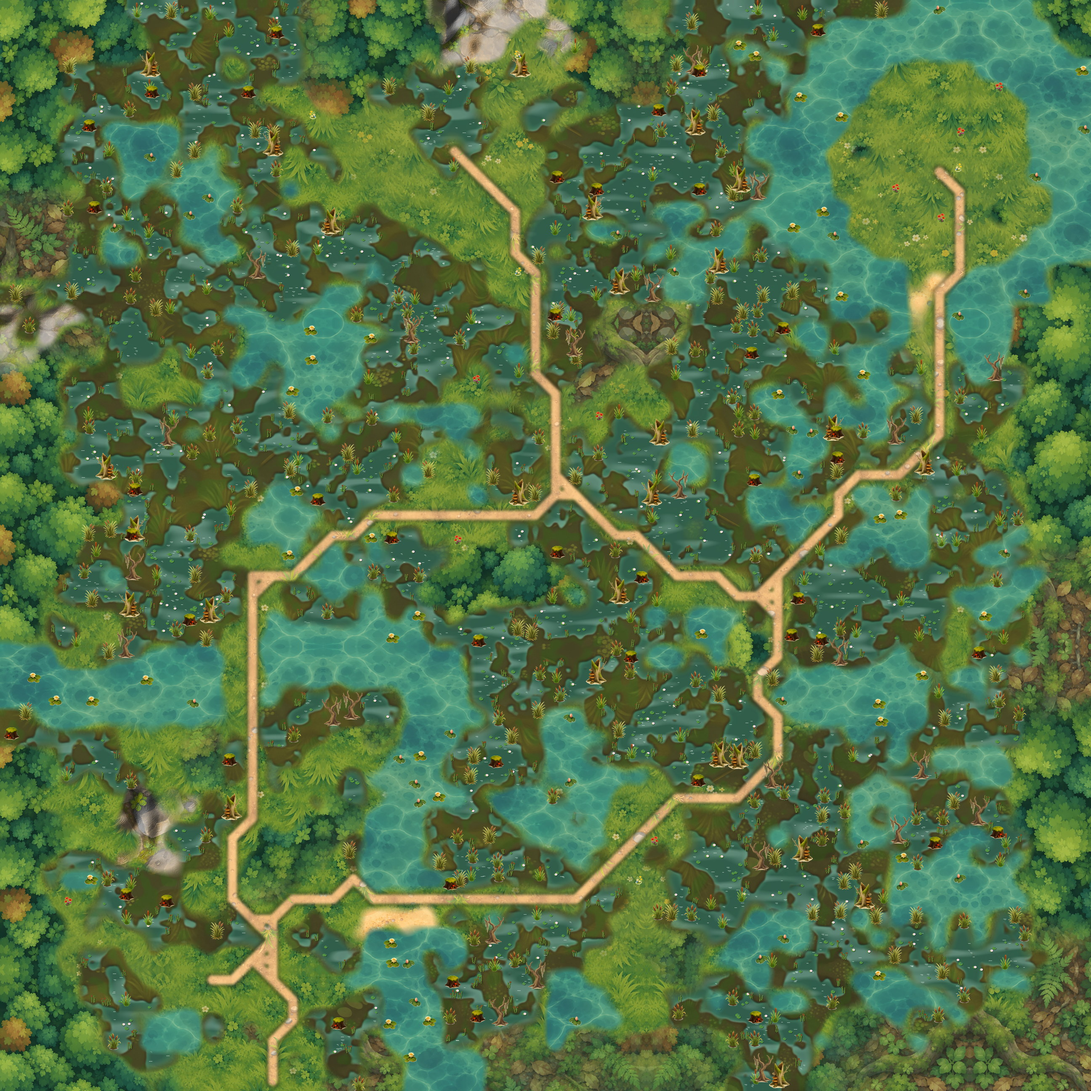
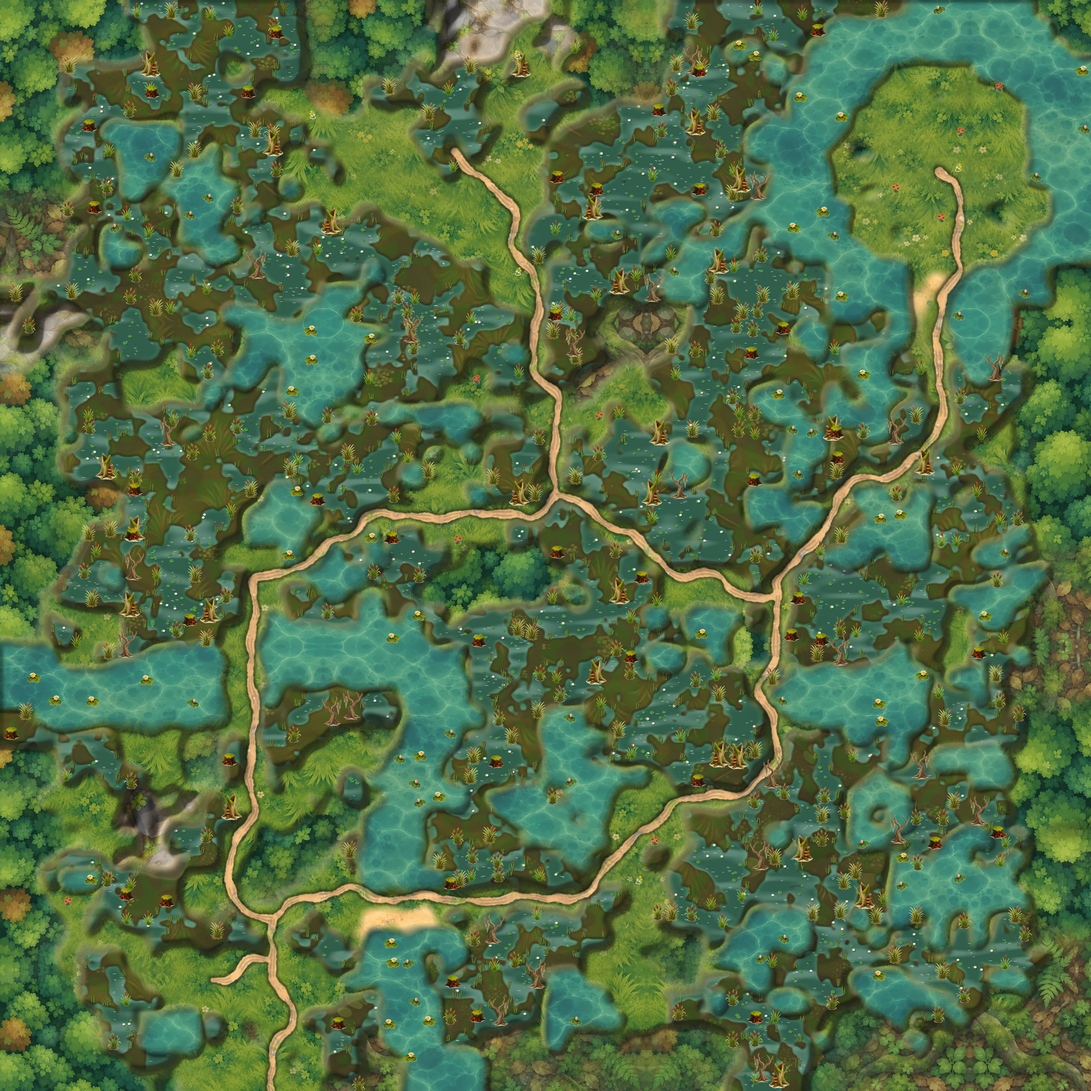
Polana, runda 4: krytyk wybiera wzorzec
Claude-Session: https://claude.ai/code/session_01Qu47Qn6gy3U54smkJJnCXL

diff --git a/tools/teren_efekty.py b/tools/teren_efekty.py
@@ -390,3 +390,195 @@ def mosty(plansza: Image.Image, maska_wody: Image.Image, kafel: int, mosty_plans
         alfa[y0:y1, x0:x1] = np.asarray(n.getchannel('A'), dtype=np.float32)[y0 - py:y1 - py, x0 - px:x1 - px] / 255.0
         woda = woda * (1 - alfa)
     return im, Image.fromarray(woda.clip(0, 255).astype(np.uint8), 'L')
+
+
+def _szum1d(n: int, okres: float, ziarno: int) -> np.ndarray:
+    """Gładki szum wzdłuż krzywej (−1…1): suma trzech sinusów o losowych fazach."""
+    rng = np.random.default_rng(ziarno)
+    s = np.arange(n, dtype=np.float32)
+    w = np.zeros(n, dtype=np.float32)
+    for mnoz, waga in ((1.0, 0.6), (2.3, 0.3), (5.1, 0.1)):
+        w += waga * np.sin(s * 2 * np.pi / (okres / mnoz) + rng.uniform(0, 6.28))
+    return w
+
+
+def droga_kreta(rysunek: list, kafel: int, ziarno: int, szerokosc: float = 0.36, zmiennosc: float = 0.4,
+                meander: float = 0.2, nad: int = 3):
+    """Droga, która MEANDRUJE i zmienia szerokość (Bagna, runda 5).
+
+    Werdykt: „ścieżki to sztywne beżowe pasy o stałej szerokości, zgięte pod
+    kątami jak na siatce". `render_mapa.maska_drogi` łączy środki pól odcinkami
+    tej samej grubości, więc każdy krok po skosie jest widoczny jako kolano.
+    Tutaj: pola drogi składamy w łańcuchy między rozwidleniami, łańcuch
+    wygładzamy (Chaikin), odsuwamy w bok łagodną falą (zerową przy
+    rozwidleniach, żeby odnogi się spotykały) i rysujemy kółkami o promieniu
+    zmiennym wzdłuż drogi. Brzeg dostaje szum — ubita ziemia nie ma krawędzi
+    od linijki. Fala jest mniejsza niż pół pola, więc droga na ekranie wciąż
+    leży na polach, po których idzie się taniej.
+
+    Zwraca `(maska, koleiny)`: koleiny to dwie ciemniejsze smugi po wozach,
+    przerywane — ślad, że tędy się jeździ.
+    """
+    wys, szer = len(rysunek), len(rysunek[0])
+    W, H = szer * kafel, wys * kafel
+    jest = lambda x, y: 0 <= x < szer and 0 <= y < wys and rysunek[y][x] == '='
+    pola_drogi = [(x, y) for y in range(wys) for x in range(szer) if jest(x, y)]
+
+    def sasiedzi(x, y):
+        wynik = []
+        for dx, dy in ((1, 0), (-1, 0), (0, 1), (0, -1)):
+            if jest(x + dx, y + dy):
+                wynik.append((x + dx, y + dy))
+        # Skos tylko wtedy, gdy nie da się dojść dwoma prostymi krokami —
+        # inaczej każde kolano robi trójkąt i łańcuch się rozpada.
+        for dx, dy in ((1, 1), (1, -1), (-1, 1), (-1, -1)):
+            if jest(x + dx, y + dy) and not jest(x + dx, y) and not jest(x, y + dy):
+                wynik.append((x + dx, y + dy))
+        return wynik
+
+    sas = {p: sasiedzi(*p) for p in pola_drogi}
+    wezly = {p for p in pola_drogi if len(sas[p]) != 2}
+    uzyte = set()
+    lancuchy = []
+    for w in list(wezly) + pola_drogi:
+        for n in sas[w]:
+            if frozenset((w, n)) in uzyte:
+                continue
+            lan = [w, n]
+            uzyte.add(frozenset((w, n)))
+            while lan[-1] not in wezly and lan[-1] != w:
+                nast = [q for q in sas[lan[-1]] if frozenset((lan[-1], q)) not in uzyte]
+                if not nast:
+                    break
+                uzyte.add(frozenset((lan[-1], nast[0])))
+                lan.append(nast[0])
+            lancuchy.append(lan)
+
+    im = Image.new('L', (W * nad, H * nad), 0)
+    kol = Image.new('L', (W * nad, H * nad), 0)
+    d = ImageDraw.Draw(im)
+    dk = ImageDraw.Draw(kol)
+    k = kafel * nad
+    for i, lan in enumerate(lancuchy):
+        pkt = np.array([((x + 0.5) * k, (y + 0.5) * k) for x, y in lan], dtype=np.float32)
+        # Wylot za krawędź planszy: droga ma wychodzić z kadru, a nie kończyć się
+        # zaokrąglonym kikutem na ramie.
+        for koniec in (0, -1):
+            x, y = lan[koniec]
+            if len(sas[lan[koniec]]) == 1 and (x in (0, szer - 1) or y in (0, wys - 1)):
+                sasiad = pkt[1] if koniec == 0 else pkt[-2]
+                wyd = pkt[koniec] + (pkt[koniec] - sasiad)
+                pkt = np.vstack([wyd[None], pkt]) if koniec == 0 else np.vstack([pkt, wyd[None]])
+        for _ in range(4):
+            if len(pkt) < 3:
+                break
+            q = pkt[:-1] * 0.75 + pkt[1:] * 0.25
+            r = pkt[:-1] * 0.25 + pkt[1:] * 0.75
+            srodek = np.empty((len(q) * 2, 2), dtype=np.float32)
+            srodek[0::2], srodek[1::2] = q, r
+            pkt = np.vstack([pkt[:1], srodek, pkt[-1:]])
+        # Równe próbkowanie co ~2 piksele ekranu.
+        odc = np.linalg.norm(np.diff(pkt, axis=0), axis=1)
+        s = np.concatenate([[0], np.cumsum(odc)])
+        dl = s[-1]
+        if dl <= 0:
+            continue
+        n = max(2, int(dl / (2 * nad)))
+        ss = np.linspace(0, dl, n)
+        px = np.interp(ss, s, pkt[:, 0])
+        py = np.interp(ss, s, pkt[:, 1])
+        tx, ty = np.gradient(px), np.gradient(py)
+        dlt = np.hypot(tx, ty) + 1e-6
+        nx, ny = -ty / dlt, tx / dlt
+        # Fala w bok — zero na rozwidleniach (odnogi mają się spotkać), pełna
+        # w środku odcinka.
+        do_konca = np.minimum(ss, dl - ss) / (k * 1.1)
+        zwez = np.clip(do_konca, 0, 1)
+        zwez = zwez * zwez * (3 - 2 * zwez)
+        fala = _szum1d(n, 5.5 * k / (2 * nad), ziarno + i * 31) * meander * k * zwez
+        px, py = px + nx * fala, py + ny * fala
+        pr = szerokosc * k / 2 * (1 + zmiennosc * _szum1d(n, 3.2 * k / (2 * nad), ziarno + i * 31 + 7))
+        for x, y, r in zip(px, py, pr):
+            d.ellipse([x - r, y - r, x + r, y + r], fill=255)
+        # Koleiny: dwie smugi po bokach osi, przerywane szumem.
+        przerwa = _szum1d(n, 2.1 * k / (2 * nad), ziarno + i * 31 + 13)
+        for strona in (-0.34, 0.34):
+            for x, y, r, p, nnx, nny in zip(px, py, pr, przerwa, nx, ny):
+                if p < -0.15:
+                    continue
+                cx, cy = x + nnx * r * strona * 2 * 0.62, y + nny * r * strona * 2 * 0.62
+                rr = max(1.0, nad * 1.3)
+                dk.ellipse([cx - rr, cy - rr, cx + rr, cy + rr], fill=255)
+    # Rozwidlenia: mały plac, żeby odnogi zlewały się w jedno.
+    for (x, y) in wezly:
+        if len(sas[(x, y)]) >= 3:
+            cx, cy, r = (x + 0.5) * k, (y + 0.5) * k, szerokosc * k * 0.62
+            d.ellipse([cx - r, cy - r, cx + r, cy + r], fill=255)
+    maska = np.asarray(im.resize((W, H), Image.LANCZOS).filter(ImageFilter.GaussianBlur(kafel * 0.07)),
+                       dtype=np.float32) / 255.0
+    # Postrzępiony brzeg: trawa wchodzi w drogę, droga wyjada trawę.
+    maska = maska + szum(W, H, max(2, int(kafel * 0.35)), ziarno + 3) * 0.16 + szum(W, H, max(2, int(kafel * 0.12)), ziarno + 4) * 0.1
+    maska = np.clip((maska - 0.5) * 3.2 + 0.5, 0, 1)
+    koleiny = np.asarray(kol.resize((W, H), Image.LANCZOS).filter(ImageFilter.GaussianBlur(1.2)), dtype=np.float32) / 255.0
+    koleiny = koleiny * np.clip(maska * 1.5 - 0.5, 0, 1)
+    return (Image.fromarray((maska * 255).astype(np.uint8), 'L'),
+            Image.fromarray((koleiny * 255).astype(np.uint8), 'L'))
+
+
+def rzezba(plansza: Image.Image, maski: dict, droga: Image.Image, kafel: int, ziarno: int,
+           wysokosci: dict | None = None, pagorki: float = 0.55, sila: float = 1.0) -> Image.Image:
+    """Rzeźba terenu: pagórki, skarpy i grobla nad bagnem (Bagna, runda 5).
+
+    Werdykt: „zupełnie płaski teren bez wzniesień, skarp i cieni". Budujemy
+    mapę wysokości z masek warstw: woda najniżej, bagno trochę wyżej, sucha
+    łąka i las wyżej, skały najwyżej, a droga przez bagno to GROBLA — wał nad
+    trzęsawiskiem. Na suchym lądzie dochodzą łagodne pagórki (szum w skali
+    kilku pól). Światło z lewej góry, jak w całej grze: stok ku światłu
+    jaśnieje, odwrotny ciemnieje, a za każdą skarpą (brzeg suchej wysepki,
+    wał grobli) pada krótki cień na niższy teren.
+    """
+    W, H = plansza.size
+    wys = {'woda': -1.0, 'bagno': -0.45, 'las': 0.25, 'skaly': 0.9, 'piasek': 0.0}
+    wys.update(wysokosci or {})
+    h = np.zeros((H, W), dtype=np.float32)
+    # Trawa jest podkładem (wysokość 0); każda warstwa przesuwa grunt ku swojej.
+    for nazwa in ('bagno', 'las', 'skaly', 'piasek', 'woda'):
+        if nazwa in maski:
+            m = np.asarray(maski[nazwa], dtype=np.float32) / 255.0
+            h = h * (1 - m) + wys[nazwa] * m
+    d = np.asarray(droga, dtype=np.float32) / 255.0
+    # Grobla: droga nigdy nie leży niżej niż wał nad bagnem.
+    walek = np.asarray(droga.filter(ImageFilter.MaxFilter(max(3, (kafel // 5) | 1))).filter(
+        ImageFilter.GaussianBlur(kafel * 0.08)), dtype=np.float32) / 255.0
+    h = np.maximum(h, walek * 0.05 + (h - 0.0) * (1 - walek))
+    # Pagórki tylko na suchym: im wyżej grunt, tym pełniejszy pagórek.
+    sucho = np.clip(h + 0.3, 0, 1)
+    wzg = szum(W, H, max(2, int(kafel * 3.2)), ziarno) * 0.7 + szum(W, H, max(2, int(kafel * 1.3)), ziarno + 1) * 0.3
+    h = h + np.clip(wzg, -0.2, 1) * pagorki * sucho * (1 - d * 0.6)
+    # Skarpy: lekko wygładzona wysokość — brzeg ostry, ale nie schodkowy.
+    # Rozmycie na liczbach zmiennoprzecinkowych: przez 8-bitowy obrazek
+    # wysokość robiła się schodkami i wychodziły z tego poziomice.
+    from scipy.ndimage import gaussian_filter
+    hs = gaussian_filter(h, kafel * 0.1)
+    gy, gx = np.gradient(hs)
+    swiatlo = np.clip(-(gx + gy * 1.2) * kafel * 1.5 * sila, -1, 1)
+    stromo = np.clip(np.hypot(gx, gy) * kafel * 0.9 - 0.35, 0, 1)
+    woda_m = np.asarray(maski['woda'], dtype=np.float32) / 255.0 if 'woda' in maski else np.zeros_like(h)
+    # Na wodzie cieniowanie słabsze (tafla jest płaska), a skarpa to odsłonięta
+    # ziemia tylko po stronie lądu.
+    lad = 1 - woda_m * 0.7
+    swiatlo = swiatlo * lad
+    # Cień rzucany: wyższy grunt na lewo-górę zasłania niższy.
+    przes = max(1, int(kafel * 0.18))
+    wyzej = np.zeros_like(hs)
+    wyzej[przes:, przes:] = hs[:-przes, :-przes]
+    cien = gaussian_filter(np.clip((wyzej - hs - 0.1) * 2.0, 0, 1), kafel * 0.07)
+    tab = _tab(plansza)
+    ziemia = (stromo * (1 - woda_m) * np.clip(hs + 0.6, 0, 1))[..., None] * 0.35
+    tab = tab * (1 - ziemia) + np.array([112, 86, 52]) * ziemia
+    S = swiatlo[..., None]
+    jasne = tab + (np.array([255, 240, 190]) - tab) * np.clip(S, 0, 1) * 0.22
+    ciemne = tab * (1 + np.clip(S, -1, 0) * 0.45) + np.array([10, 20, 40]) * (-np.clip(S, -1, 0)) * 0.12
+    tab = np.where(S > 0, jasne, ciemne)
+    tab = tab * (1 - cien[..., None] * 0.4 * sila)
+    return _obraz(tab)

diff --git a/tools/render_mapa.py b/tools/render_mapa.py
@@ -71,6 +71,10 @@ NAKLEJKI: list = []
 MOSTY: list = []
 #: Parametry efektu `trzesawisko` (barwa oczek) — `TRZESAWISKO` z konfiguracji.
 TRZESAWISKO: dict = {}
+#: Kręta droga (`DROGA_KRETA` z konfiguracji, patrz `teren_efekty.droga_kreta`)
+#: i rzeźba terenu (`RZEZBA`, `teren_efekty.rzezba`). Brak wpisu — jak dotąd.
+DROGA_KRETA = None
+RZEZBA = None
 
 KAFEL = 48                  # bok pola na ekranie
 #: Ile razy nadpróbkowujemy maskę drogi, zanim ją zmniejszymy. Rysowanie
@@ -125,6 +129,7 @@ def ustaw(mapa_id: str):
     i wymiary z globali — tak było, gdy plansza była jedna, i tak zostaje,
     bo każda z nich jest wołana raz na planszę."""
     global KATALOG, ZRODLO, RYSUNEK, WYS, SZER, W, H, BARWY, EFEKTY, TEKSTURY, WTAPIANIE, NAKLEJKI, TRZESAWISKO, MOSTY
+    global DROGA_KRETA, RZEZBA
     KATALOG = katalog_tla(mapa_id)
     k = konfiguracja(mapa_id)
     BARWY = getattr(k, 'BARWY_TERENU', {})
@@ -133,6 +138,8 @@ def ustaw(mapa_id: str):
     WTAPIANIE = getattr(k, 'WTAPIANIE', {})
     NAKLEJKI = getattr(k, 'NAKLEJKI', [])
     TRZESAWISKO = getattr(k, 'TRZESAWISKO', {})
+    DROGA_KRETA = getattr(k, 'DROGA_KRETA', None)
+    RZEZBA = getattr(k, 'RZEZBA', None)
     ZRODLO = plik_ts(mapa_id)
     RYSUNEK = wczytaj_rysunek()
     # Mosty (`MOSTY` planszy): pola pod mostem są w grze drogą, ale w tle
@@ -315,8 +322,16 @@ def klatka() -> tuple[Image.Image, Image.Image]:
     # bagna i śniegu tę samą łąkę w innym kolorze.
     if 'bez_placow' not in EFEKTY:
         plansza.paste(sciezka, (0, 0), maska_gruntu())
-    droga = maska_drogi()
-    plansza.paste(sciezka, (0, 0), droga)
+    if DROGA_KRETA is not None:
+        droga, koleiny = teren_efekty.droga_kreta(RYSUNEK, KAFEL, ZIARNO + 760, **DROGA_KRETA)
+        plansza.paste(sciezka, (0, 0), droga)
+        # Koleiny: ta sama ziemia, tylko ciemniejsza i chłodniejsza.
+        plansza.paste(Image.new('RGBA', plansza.size, (70, 52, 34, 255)), (0, 0), koleiny.point(lambda v: int(v * 0.42)))
+    else:
+        droga = maska_drogi()
+        plansza.paste(sciezka, (0, 0), droga)
+    if RZEZBA is not None:
+        plansza = teren_efekty.rzezba(plansza, maski, droga, KAFEL, ZIARNO + 780, **RZEZBA).convert('RGBA')
     if 'obwodka_drogi' in EFEKTY:
         plansza = teren_efekty.obwodka_drogi(plansza, droga, KAFEL).convert('RGBA')
     # Naklejki terenu (trzcina, grążele, zaśnieżone głazy…) z `public/mapa/tlo/`

diff --git a/tools/wsad_wczytaj.py b/tools/wsad_wczytaj.py
@@ -627,6 +627,10 @@ ZESTAWY = {
         'drzewo': 144, 'drzewo-b': 144, 'krzak': 84, 'krzak-2': 84,
         'kepa-las-1': 216, 'kepa-las-2': 216, 'kepa-las-3': 216, 'kepa-las-4': 216,
         'kopalnia-kamien': 160, 'kopalnia-odlamek': 160, 'kopalnia-pokeball': 160,
+        # Bagna, runda 5 („płaski teren bez wzniesień"): omszałe wzgórza
+        # z urwiskami torfu zamiast szarych głazów.
+        'kepa-skaly-1': 216, 'kepa-skaly-2': 216, 'kepa-skaly-3': 216, 'kepa-skaly-4': 216,
+        'skala': 67, 'skala-2': 67, 'kopiec': 37, 'kopiec-2': 37,
     },
     # Polana: trawiaste góry z brązowymi urwiskami zamiast omszałych głazów
     # (runda 3 ślepego porównania: „bez pasma gór w kadrze").

diff --git a/tools/mapy/bagna.py b/tools/mapy/bagna.py
@@ -419,3 +419,11 @@ NAKLEJKI = [
     # kwiaty rosną tylko na suchym.
     (['kwiaty-1', 'kwiaty-2'], '.', 0.07),
 ]
+
+#: Runda 5 („ścieżki to sztywne beżowe pasy o stałej szerokości, zgięte pod
+#: kątami jak na siatce, na zupełnie płaskim terenie"): droga meandruje
+#: i zmienia szerokość (`teren_efekty.droga_kreta`), a teren dostaje rzeźbę —
+#: pagórki na suchym, skarpy wysepek nad bagnem, groblę jako wał z cieniem
+#: (`teren_efekty.rzezba`).
+DROGA_KRETA = {'szerokosc': 0.34, 'zmiennosc': 0.42, 'meander': 0.22}
+RZEZBA = {'pagorki': 0.55}

diff --git a/tools/PROMPTY-PLANSZE.md b/tools/PROMPTY-PLANSZE.md
@@ -630,3 +630,77 @@ front edge, and below the deck the front face with two squat grey fieldstone
 piers. Both ends are flat and open so a dirt road can run onto them. Much
 wider than tall. No water, no river banks, no grass, no ground.
 ```
+
+## 7. Bagna — omszałe wzgórza w pierwszym ekranie (runda 5 ślepego porównania)
+
+Werdykt rundy 5: „zupełnie płaski teren bez wzniesień, skarp i cieni". Poza
+rzeźbą w tle (`teren_efekty.rzezba`) Bagna dostają pasmo wzgórz na lewym
+skraju pierwszego ekranu. Podstawowe `kepa-skaly` to szare głazy — na bagnie
+wzgórze jest omszałe, z urwiskami torfu i ciemnej ziemi. Zestaw `bagno`.
+
+| Plik (tools/wsad/) | Trafia do | Wysokość |
+|---|---|---|
+| `bagno-kepa-skaly-1..4.png` | `public/mapa/bagno/kepa-skaly-N.png` | 216 px |
+| `bagno-skala.png`, `bagno-skala-2.png` | `public/mapa/bagno/skala*.png` | 67 px |
+| `bagno-kopiec.png`, `bagno-kopiec-2.png` | `public/mapa/bagno/kopiec*.png` | 37 px (kopie `bagno-skala*.png`) |
+
+<!-- plik: bagno-kepa-skaly-1.png | styl: obiekt | proporcje: 3:2 -->
+```
+A segment of a mossy swamp hill range in the style of Heroes of Might and
+Magic 2: two rounded hills covered in deep green moss and short marsh grass,
+steep dark brown peat-and-earth cliffs and ravines cut into the slopes, sharp
+ridge lines running down from each top, a small crooked willow and a few
+cattails in the folds. Lit from the upper left: bright yellow-green sunlit
+slopes on the left, deep olive and brown shadowed folds on the right. Clearly
+an impassable hill, not a pile of boulders. Wider than tall; the foot of the
+hill spreads across the whole width of the picture so that pieces placed side
+by side join into one continuous range.
+```
+
+<!-- plik: bagno-kepa-skaly-2.png | styl: obiekt | proporcje: 3:2 -->
+```
+A long mossy ridge above a swamp in the style of Heroes of Might and Magic 2:
+one high green crest with a saddle and a smaller second hump, grey-green
+mossy rock ledges and vertical brown gullies on the steep faces, one bare
+dead tree on the crest, moss hanging over the ledges. Strong sculpted relief
+lit from the upper left: bright slopes on the left, deep olive-brown shadow
+folds on the right. Wider than tall; the foot spreads across the whole width
+of the picture.
+```
+
+<!-- plik: bagno-kepa-skaly-3.png | styl: obiekt | proporcje: 3:2 -->
+```
+A broad massive mossy hill in the style of Heroes of Might and Magic 2: one
+big rounded summit overgrown with dark green moss and marsh grass, the whole
+front face cut by many parallel dark brown peat gullies and ridges running
+down the slope like folds of cloth, a tiny waterfall trickling down one
+gully, a few cattails at the foot. Lit from the upper left, shadows on the
+right. One solid landform, no separate spires or loose rocks. Wider than tall;
+the foot spreads across the whole width of the picture.
+```
+
+<!-- plik: bagno-kepa-skaly-4.png | styl: obiekt | proporcje: 3:2 -->
+```
+Low broad mossy foothills in the style of Heroes of Might and Magic 2: three
+soft knolls covered in moss and marsh grass packed together, dark brown earth
+scarps and mossy grey outcrops breaking the slopes, a couple of small dark
+green bushes and a willow sapling in the hollows. Lit from the upper left.
+Reads as foothills of a hill chain, clearly impassable. Wider than tall; the
+foot spreads across the whole width of the picture.
+```
+
+<!-- plik: bagno-skala.png | styl: obiekt -->
+```
+A single small mossy hilltop in the style of Heroes of Might and Magic 2: a
+rounded top of deep green moss, steep dark brown peat faces with one gully,
+a few cattails at the foot, lit from the upper left, shaded on the right.
+Slightly wider than tall.
+```
+
+<!-- plik: bagno-skala-2.png | styl: obiekt -->
+```
+A small craggy outcrop in a swamp in the style of Heroes of Might and Magic 2:
+two grey rocks thickly overgrown with green moss and hanging lichen, a tuft
+of marsh grass on the ledge, dark wet mud at the foot, lit from the upper
+left. Slightly wider than tall.
+```
